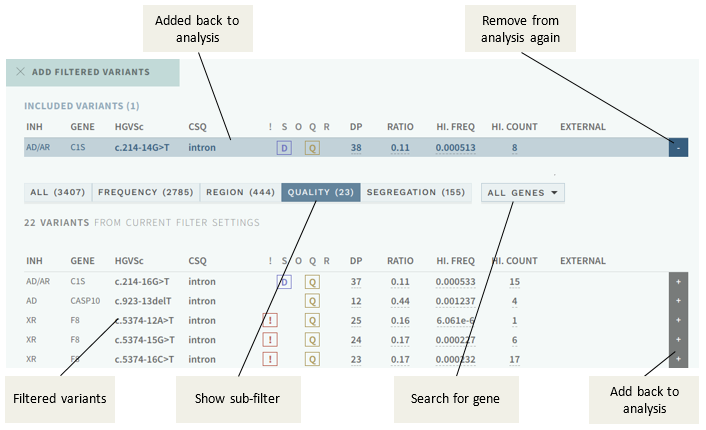
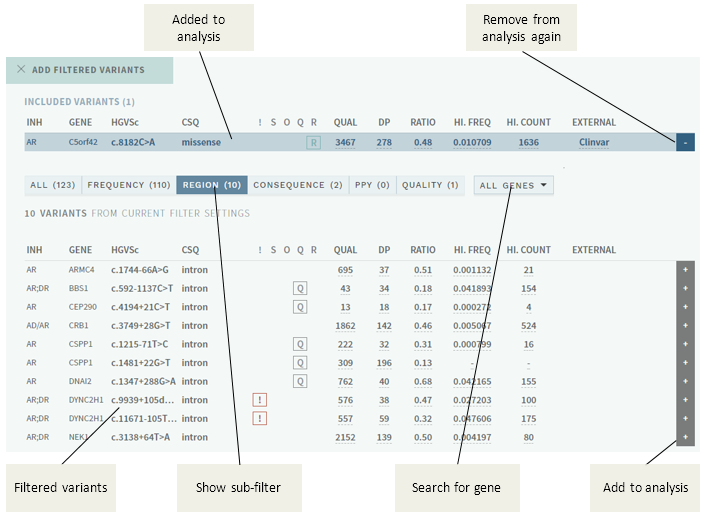
Additional changes for MR !270, !271, !279, !275, !278.

diff --git a/docs/manual/side-bar.md b/docs/manual/side-bar.md
@@ -10,44 +10,51 @@ The variants in your sample (ANALYSES mode only) are listed in the side bar to t
 
 <div style="text-indent: 4%;"><img src="./img/sidebar.png"></div>
 
-Names (variant HGVSc and gene) and inheritance is displayed as specified by the default transcript in the gene panel. If there is more than one default transcript, all versions are shown.
+The side bar layout described here is for the default, full classification mode. The layout is almost the same in other CLASSIFICATION view modes ([QUICK](/manual/quick-classification.md) and [VISUAL](/manual/visual.md)) and on the [REPORT](/manual/report-page.md) page, except for some columns/buttons. For details, go the referenced pages. 
 
-## Buttons
+Note that names (variant HGVSc and gene) and inheritance are displayed as specified by the default transcript in the gene panel. If there is more than one default transcript, all versions are shown.
 
-The side bar has several buttons on the top of the variant list: 
+
+## Buttons and comment fields
+
+The side bar has an INDICATIONS COMMENT field at the top, corresponding to the [same field](/manual/report-page.html#comment-fields-indication-and-report) on the REPORT page (changes in either place is mirrored in both). 
+
+Directly beneath that are several buttons: 
 
 <div style="text-indent: 4%;"><img src="./img/sidebar_buttons.png"></div>
 <br>
 
-Button  | Explanation | More information
-:---  | :---  | :---
-`FILTERED`  | View and optionally add back filtered variants. | [Filtered variants](/manual/filtered-variants.md)
-[Drop-down menu]  | Switch between filter configurations (pre-defined)  | [Filtered variants](/manual/filtered-variants.md)
-`FULL`  | Switch to Full (default; detailed) classification. |  [Evidence sections](/manual/evidence-sections.html), [Classification section](/manual/classification-section.html)
-`QUICK`  | Switch to Quick classification mode. |  [Quick mode](/manual/quick-classification.md)
-`VISUAL`  | Switch to Visual mode.  | [Visual mode](/manual/visual.md)
+- `FILTER`: View and optionally add back [filtered variants](/manual/filtered-variants.md)
+- [Drop-down menu]: Switch between (pre-defined) [filter configurations](/manual/filtered-variants.md).
+- `FULL`: Switch to Full (default; detailed) classification. See also [Evidence sections](/manual/evidence-sections.html), [Classification section](/manual/classification-section.html).
+- `QUICK`: Switch to [Quick classification mode](/manual/quick-classification.md).
+- `VISUAL`: Switch to [Visual mode](/manual/visual.md).
+
 
 ## Variant tags
 
 If applicable, variants in the variant list are tagged with:
 
-  - `!` See [Variant warnings](/manual/top-bar.html#variant-warnings).
+  - `!` [Variant warnings](/manual/top-bar.html#variant-warnings).
 
-  - `S` Segregation. Depdending on data, changes to:
+  - `S` [Segregation](/concepts/filtering.html#segregation-filter). Depdending on data, changes to:
     
       - `D` De novo
       - `A` Autosomal recessive homozygous
       - `X` X-linked recessive
       - `C` Compound heterozygous
+      - `M` Inherited mosaicism
 
-  - `O` Homozygous/hemizygous genotype
+  - `O` Homozygous/hemizygous genotype.
 
   - `Q` Quality issues. Same as [NEEDS VERIFICATION](/manual/evidence-sections.html#quality-information), except that indels are not marked unless there is other issues. Depending on actions in the [QUALITY section](/manual/evidence-sections.html#quality), this tag may be replaced by:
     
       - `V` Verified (green)
       - `T` Technical (red)
 
-  - `R` Reference available
+  - `R` Reference available (from annotation).
+
+  - `I` Included variants (column `F` for filtered, shown only if variants have been included from filtered variants).
 
   - Shaded background: More than one variant in the same gene (in current sample).
 

diff --git a/docs/manual/report-page.md b/docs/manual/report-page.md
@@ -7,15 +7,27 @@ title: Report page
 Navigate to the report page using the corrseponding button in the top bar:
 
 <div style="text-indent: 4%;"><img src="./img/nav_report_btn.png"></div>
+<br>
 
-The report page lets you export variants using using standard naming conventions together with the classification, as well as any comments you added to the REPORT field in the CLASSIFICATION section. NB: Currently, this *must* be done before marking the sample as finalised (see below).
+## Comment fields: Indication and report
 
-Variants classified as Class (3,) 4 or 5 (depending on confifuration) are automatically added to the report and marked with a `-` sign in the side bar. Not included variants are marked with a `+` sign. If you want to remove or add additional variants, simply click anywhere on the variant in the list.
+You may add two types of comments on this page, meant for internal purposes (i.e., they are not included in the export): 
+
+- INDICATION COMMENT: For comments about/description of the patient's indication. The contents of this comment field is also shown at the [top of the side bar](/manual/side-bar.html#buttons-and-comment-fields) on the CLASSIFICATION page (changes in either place is mirrored in both).
+::: warning NOTE
+Comments about how the indication or phenotype has influenced the current analysis specifically should be made in the [ANALYSIS SPECIFIC section](/manual/evidence-sections.html#analysis-specific-analyses-only) on the CLASSIFICATION page, not here.
+::: 
+- REPORT COMMENT: For comments relevant for the sample as a whole (including all variants) and how the report was written.
+::: warning NOTE
+This is different from comments made in the [REPORT field](/manual/classification-section.html#evaluation-and-report-summarising-comments) on the CLASSIFICATION page, which are connected to a specific variant. 
+::: 
+
+## Adding or removing variants from the report export
+
+The report page also lets you export variants in a CLINICAL REPORT using using standard naming conventions together with the classification, as well as any comments you added to the REPORT field in the CLASSIFICATION section.
+
+Variants classified as Class (3,) 4 or 5 (depending on configuration) are automatically added to the report and marked with a `-` sign in the side bar. Not included variants are marked with a `+` sign. If you want to remove or add additional variants, simply click on the `-` or `+` sign, respectively, for the variant.
 
 <div style="text-indent: 4%;"><img src="./img/report_sidebar.png"></div>
 
-Once you are satisfied, copy the text generated in the REPORT field to LIMS software. You may also add two types of comments: 
-
-- REPORT COMMENT: For comments relevant for the sample as a whole (including all variants) and how the report was written.
-
-- INDICATION COMMENT: For comments about the patient's indication. Note: Comments about how the indication or phenotype has influenced the analysis should be place in the [ANALYSIS SPECIFIC section](/manual/evidence-sections.html#analysis-specific-analyses-only) on the CLASSIFICATION page. 
+Once you are satisfied, copy the text generated in the REPORT field to LIMS software. 

diff --git a/docs/releasenotes/README.md b/docs/releasenotes/README.md
@@ -18,25 +18,40 @@ sidebar: auto
 
 ### Highlights
 
-### New features
+#### Classification view modes
 
-### Additions and fixes
-- Changed naming of ACMG criteria with modified strength to ClinGen's recommendations (e.g. PM1_Strong instead of PSxPM1). 
-- Renamed/added buttons in side bar:
-    - `FULL` 
-    - `QUICK` (renamed from QUICK CLASSIFICATION)
-    - `VISUAL` (renamed from VISUALIZATION; button moved from top bar.
-- Added function to mark as `TECHNICAL` (button and comment) in VISUAL mode
-- Added QUAL column to variant lists in analysis workflow
-- Fix issue with pagination in import modal
-- Fix issue where genepanel was not reloaded when including a filtered variant
+The VISUALIZATION page has been redefined as a view mode on the CLASSIFICATION page, allowing for easier switching between relevant views while performing variant classification. Switching between view modes can now be done with three buttons above the variant list in the side bar: 
+
+<div style="text-indent: 4%;"><img src="./img/1-5-sidebar-modes.png"></div>
+<br>
+
+- `FULL` (new button; default view mode).
+- `QUICK` (renamed from QUICK CLASSIFICATION).
+- `VISUAL` (renamed from VISUALIZATION; button moved from top bar).
+
+#### Changes to side bar functionality
+
+It is now possible to mark variants as `TECHNICAL` in the side bar in VISUAL mode (with commenting after marking, similar to QUICK mode), and the INDICATIONS COMMENT from the REPORT page is mirrored in the side bar on the CLASSIFICATION page, allowing for a more efficient workflow. 
+
+#### ACMG modified criteria according to ClinGen 
+ACMG criteria where the strength of the original criterion are now displayed according to ClinGen's recommendations, e.g. `PM1_Strong` instead of `PSxPM1`. 
+
+### Complete list of additions and fixes
+- VISUALIZATION redefined as view mode VISUAL on CLASSIFICATION page, with navigation moved to the side bar.
+- Added function to mark as `TECHNICAL` (button and comment) in VISUAL mode.
+- Mirrored INDICATIONS COMMENT from the REPORT in the side bar on the CLASSIFICATION page.
+- Changed naming of ACMG criteria with modified strength to ClinGen's recommendations. 
+- Added QUAL column to variant lists in the side bar for analysis workflow (QUICK and VISUAL mode) and filtered variants.
+- Adding/removing variants in the REPORT restricted to toggle button (not clicking the anywhere on the variant).
+- Fixed sorting on F column (tag: Included) in the side bar.
+- Fix issue where genepanel was not reloaded when including a filtered variant.
 
 
 ## 1.4.1
 
 ### Additions and fixes
-- Increase overview update interval to lessen strain server
-- Fix automatic import of analyses with underscore in the gene panel name
+- Increase overview update interval to lessen strain server.
+- Fix automatic import of analyses with underscore in the gene panel name.
 - Fix issue where finalization would not work under certain conditions.
 
 

diff --git a/docs/manual/filtered-variants.md b/docs/manual/filtered-variants.md
@@ -10,9 +10,13 @@ Many variants have usually been automatically filtered from view before you star
 
 <div style="text-indent: 4%;"><img src="./img/filtered_btn.png"></div>
 
-In this particular sample, there are a total of 3407 filtered variants, and none of these have been added back manually to the analysis by the user. Pushing the button brings up a window where you may select individual variants and add them back to the analysis:
+In this particular sample, there are a total of 123 filtered variants, and one of these have been added manually to the analysis by the user. 
+
+Pushing the button brings up a window where you may select individual variants and add them to the analysis:
 
 <div style="text-indent: 4%;"><img src="./img/filtered.png"></div>
+
+Pushing the `+` to the right of a variant adds the variant to the analysis, and will be shown in the side bar variant list with the `I` tag. 
 
 The filter categories ("sub-filters" in the figure above) are defined in the configuration for your user group/gene panel, and each may consist of a combination of rules for filtering and "rescue". The left-most category (ALL) shows all filtered variants combined, whereas the other categories are applied in the left-right order displayed (i.e. in the example above, variants are filtered on frequency first, remaining are filtered by region, etc.).
 

diff --git a/docs/manual/classification-section.md b/docs/manual/classification-section.md
@@ -13,7 +13,10 @@ This section is where you review the information from other sections, summarise 
 Unlike other sections, this section contains two main comment fields:
 
   - EVALUATION: For summarising the evaluation of the consequence of the variant. This should be detailed enough for making an informed decision, but leaving the specifics to comments in respective sections.
-  - REPORT: Comments regarding clinical evaluation (automatically included in the final patient report).
+  - REPORT: Comments relevant for clinical evaluation (automatically included in the final patient report). 
+  ::: warning NOTE
+  Comments made here will be visible for all patients where this variant shows up, and should be generalized, not patient-specific, as far as possible. For patient specific comments, use [fields on the REPORT page](/manual/report-page.html#comment-fields-indication-and-report).  
+  ::: 
 
 ## Variants with a previous interpretation
 
